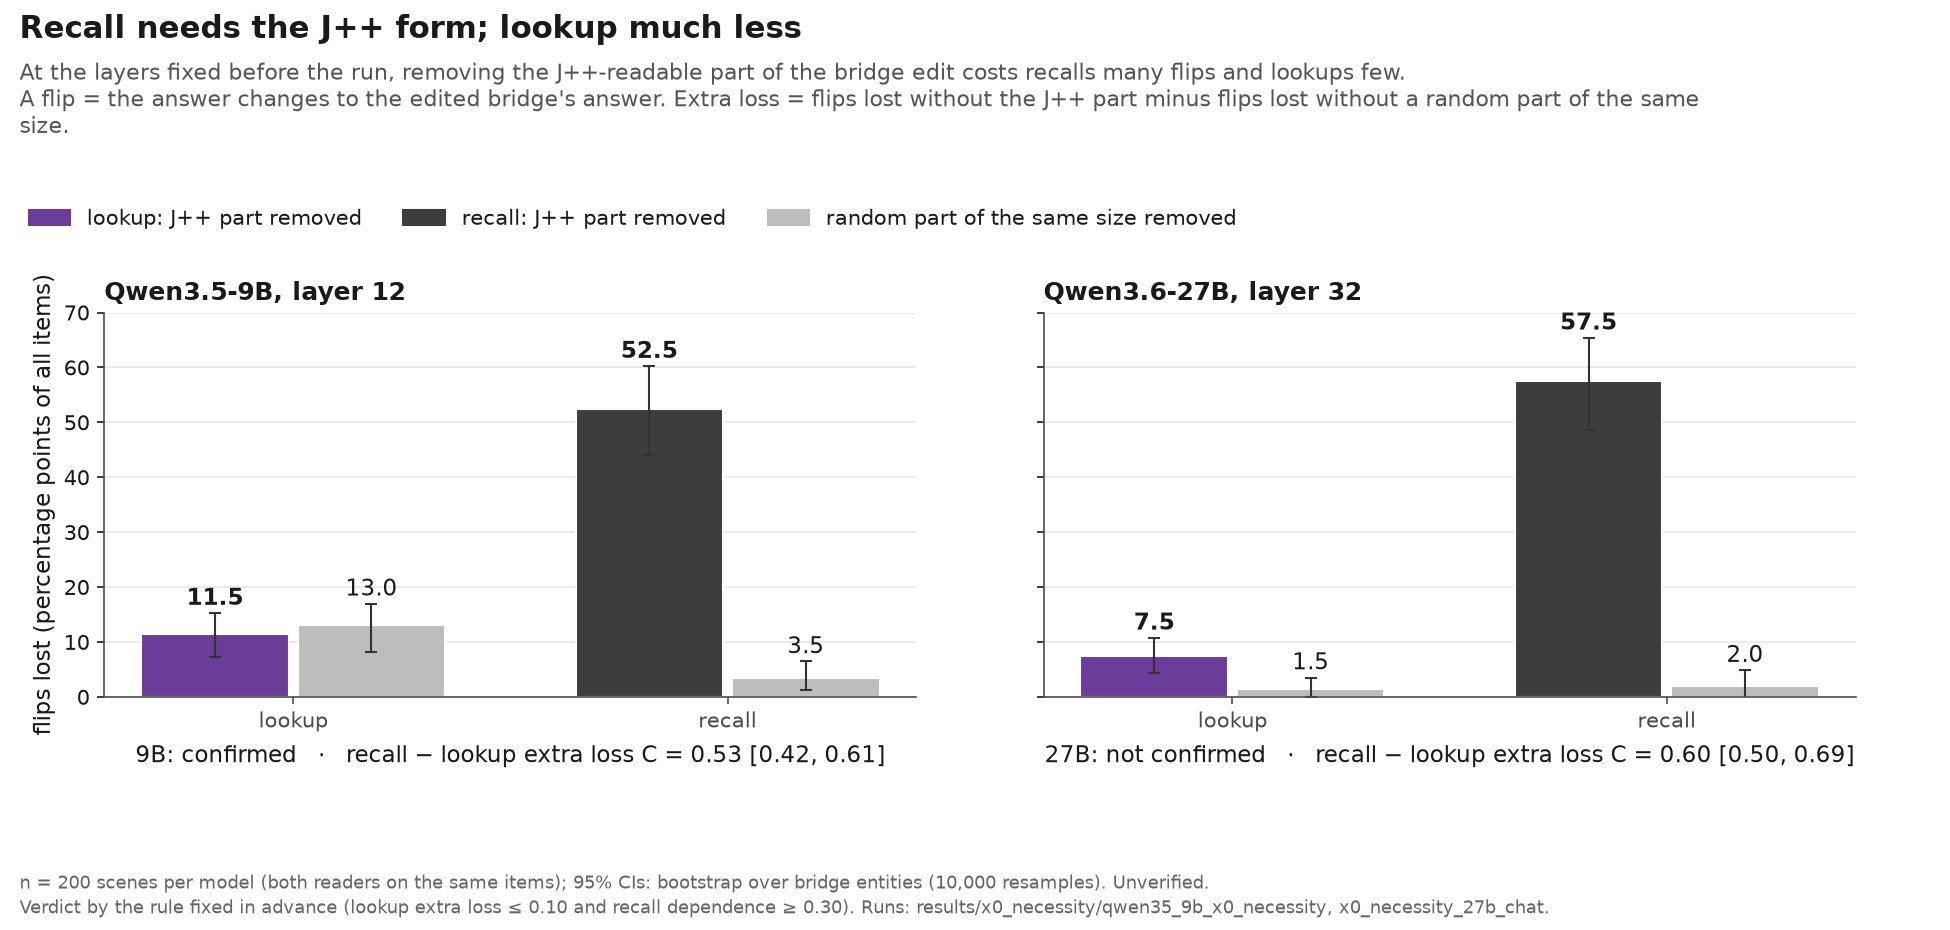
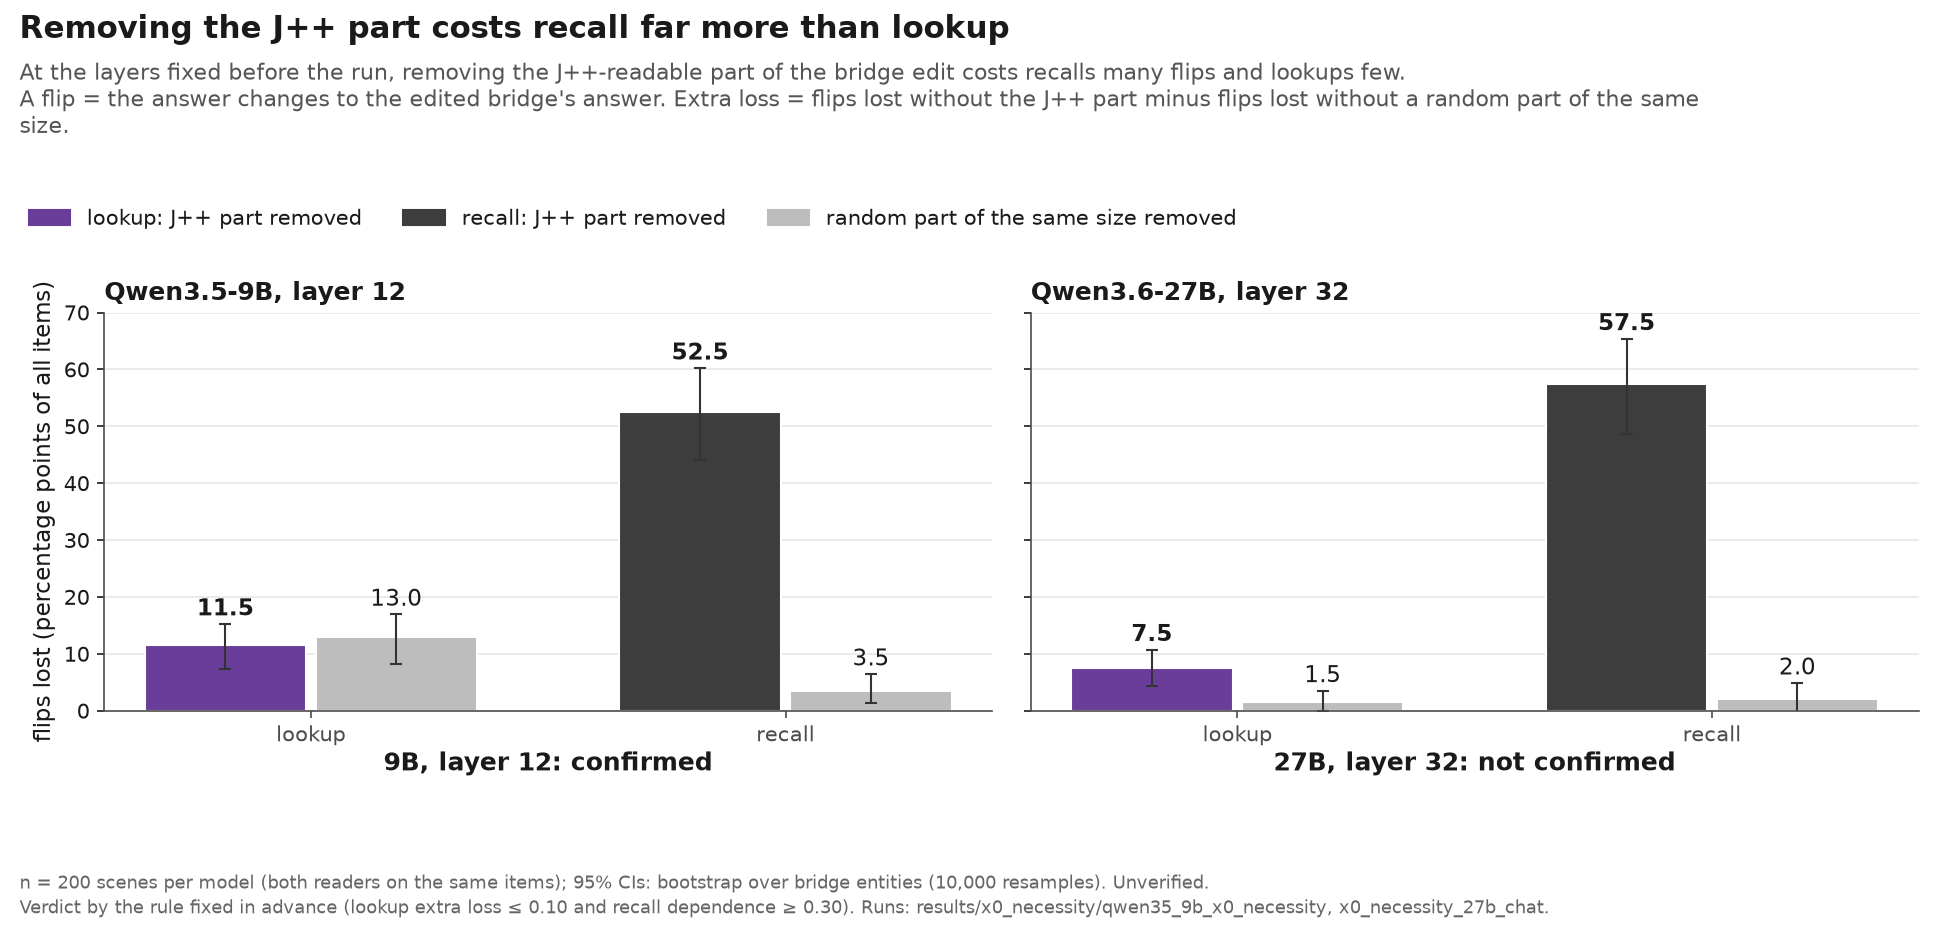
figures: replace the X0 overview with readable status figures (no numbers changed)
- figures/status_2026-10-24: F1 retitled ('Removing the J++ part costs recall far more than lookup') with the verdict
  under each model; F2 reworked (extra flips lost by depth, valid cells only, the 'not needed' band, the values at the
  pre-registered layer, invalid cells and the no-chat-template result in the footnote); F5 new (extra loss against
  the number of J++ atoms, 25-200).
- README: the overview replaced by F1 and F2; the k-curve by F5. The overview stays in figures/x0_necessity/ for the
  details page.

diff --git a/scripts/x0_status_pack.py b/scripts/x0_status_pack.py
@@ -1,11 +1,12 @@
 """x0_status_pack: four plain-language X0 figures for a status update (Dan, 24 Oct), from existing rows only. Writes
-figures/status_2026-10-24/{f1_readers, f2_depth, f3_dictionaries, f4_order}.png and data.csv. UNVERIFIED.
+figures/status_2026-10-24/{f1_readers, f2_depth, f3_dictionaries, f4_order, f5_atoms}.png and data.csv. UNVERIFIED.
 
 F1  the pre-registered layers (9B L12, 27B L32): flips lost (points of all items) without the J++ part and without a
     random part of the same size, per reader; the rule's verdict and the graded contrast C under each model.
-F2  share of flips lost by relative depth: lookup and recall without the J++ part; grey band = without a random part.
+F2  extra flips lost by relative depth, lookup and recall, valid cells only.
 F3  extra flips lost against the share of the change removed: J++, and W_U / W_E / random atoms as one grey band.
 F4  the share of lookups the whole edit flips, locker sentence before vs after the pick sentence.
+F5  extra flips lost against the number of J++ atoms removed (25-200), at the pre-registered layer.
 """
 
 from __future__ import annotations
@@ -98,8 +99,8 @@ def f1(plt, F, color, grey) -> None:
         record("f1", target, run, la, "recall-lookup", "graded contrast C (excess)", cc[0], cc[1], cc[2])
         ax.set_xticks(xs, ["lookup", "recall"])
         ax.set_title(f"{label}, layer {la}")
-        ax.text(0.5, -0.17, f"{label.split('-')[1]}: {verdict}   ·   recall − lookup extra loss C = {cc[0]:.2f} "
-                f"[{cc[1]:.2f}, {cc[2]:.2f}]", transform=ax.transAxes, ha="center", fontsize=11)  # fmt: skip
+        ax.text(0.5, -0.15, f"{label.split('-')[1]}, layer {la}: {verdict}", transform=ax.transAxes, ha="center",
+                fontsize=12, weight="bold")  # fmt: skip
         ax.grid(axis="y", color="#e8e8e8")
         ax.set_axisbelow(True)
     axes[0].set_ylabel("flips lost (percentage points of all items)")
@@ -107,7 +108,7 @@ def f1(plt, F, color, grey) -> None:
     handles = [plt.Rectangle((0, 0), 1, 1, color=F.LOOKUP), plt.Rectangle((0, 0), 1, 1, color=F.RECALL),
                plt.Rectangle((0, 0), 1, 1, color=grey)]  # fmt: skip
     labels = ["lookup: J++ part removed", "recall: J++ part removed", "random part of the same size removed"]
-    head(fig, "Recall needs the J++ form; lookup much less",
+    head(fig, "Removing the J++ part costs recall far more than lookup",
          "At the layers fixed before the run, removing the J++-readable part of the bridge edit costs recalls many flips "
          "and lookups few.\nA flip = the answer changes to the edited bridge's answer. Extra loss = flips lost without the "
          "J++ part minus flips lost without a random part of the same size.", handles, labels)  # fmt: skip
@@ -120,50 +121,115 @@ def f1(plt, F, color, grey) -> None:
 
 
 def f2(plt, F, color, grey) -> None:
-    fig, axes = plt.subplots(1, 2, figsize=(13, 5.8), sharey=True, sharex=True)
+    """Extra flips lost by relative depth, lookup and recall, valid cells only; the 'not needed' band; the values at
+    the pre-registered layer."""
+    fig, axes = plt.subplots(1, 2, figsize=(13, 5.8), sharey=True)
+    invalid = []
     for ax, (target, label, run, _) in zip(axes, MODELS, strict=True):
         r = XF.Run(run)
         cells = r.cells("chat")
         n_layers = pins.TARGETS[target]["n_layers"]
         layers = sorted({k[1] for k in cells})
-        depth = [100 * la / n_layers for la in layers]
-        valid = [(d, [cells[("chat", la, w, *X.MAIN)] for w in X.READERS]) for d, la in zip(depth, layers, strict=True)]
-        valid = [(d, [c for c in cs if c["valid"]]) for d, cs in valid]
-        valid = [(d, cs) for d, cs in valid if cs]
-        ax.fill_between([d for d, _ in valid], [min(c["Rdep"][1] for c in cs) for _, cs in valid],
-                        [max(c["Rdep"][2] for c in cs) for _, cs in valid], color=grey, alpha=0.6, lw=0)  # fmt: skip
+        ax.axhspan(0, X.AROUND_EXCESS, color="#f1f1f1", lw=0, zorder=0)
+        ax.text(0.99, X.AROUND_EXCESS / 2, "counts as 'not needed'", transform=ax.get_yaxis_transform(), ha="right",
+                va="center", fontsize=8.5, color="#888888")  # fmt: skip
+        ax.axhline(X.THROUGH_EXCESS, color="#bbbbbb", lw=0.8, ls=":")
+        ax.text(0.99, X.THROUGH_EXCESS + 0.01, "counts as 'needed'", transform=ax.get_yaxis_transform(), ha="right",
+                va="bottom", fontsize=8.5, color="#888888")  # fmt: skip
+        ax.axhline(0, color="black", lw=0.6)
+        series = {}
         for w in X.READERS:
-            cs = [cells[("chat", la, w, *X.MAIN)] for la in layers]
-            ys = [c["Jdep"][0] for c in cs]
-            ax.plot(depth, ys, "-", color=color[w], lw=2.2)
-            for d, c in zip(depth, cs, strict=True):
-                ax.plot(d, c["Jdep"][0], "o", ms=6, color=color[w], mfc=color[w] if c["valid"] else "white")
-                v, lo, hi = c["Jdep"]
-                record("f2", target, run, round(d * n_layers / 100), w, "flips lost without J++ (share)", v, lo, hi,
-                       c["n"])  # fmt: skip
+            pts = [(100 * la / n_layers, cells[("chat", la, w, *X.MAIN)]) for la in layers]
+            bad = [la for la in layers if not cells[("chat", la, w, *X.MAIN)]["valid"]]
+            if bad:
+                invalid.append(f"{label.split('-')[1]} {NAME[w]}s at layers {bad[0]}-{bad[-1]}" if len(bad) > 1
+                               else f"{label.split('-')[1]} {NAME[w]}s at layer {bad[0]}")  # fmt: skip
+            d = [x for x, c in pts if c["valid"]]
+            y = [c["excess"][0] for _, c in pts if c["valid"]]
+            ax.fill_between(d, [c["excess"][1] for _, c in pts if c["valid"]], [c["excess"][2] for _, c in pts if c["valid"]],
+                            color=color[w], alpha=0.13, lw=0)  # fmt: skip
+            ax.plot(d, y, "-o", color=color[w], lw=2.2, ms=4)
+            series[w] = dict(zip(d, y, strict=True))
+            for x, c in pts:
+                lo, hi = c["excess"][1], c["excess"][2]
+                record("f2", target, run, round(x * n_layers / 100), w, "extra loss", c["excess"][0], lo, hi, c["n"])
+        both = sorted(set(series[X.LOOKUP]) & set(series[X.RECALL]))
+        ax.fill_between(both, [series[X.LOOKUP][x] for x in both], [series[X.RECALL][x] for x in both], color="#9e9e9e",
+                        alpha=0.08, lw=0)  # fmt: skip
         pred = X.PREDICTED[target]
         pd = 100 * pred / n_layers
         ax.axvline(pd, color="#999999", lw=1, ls="--")
         lk, rc = cells[("chat", pred, X.LOOKUP, *X.MAIN)], cells[("chat", pred, X.RECALL, *X.MAIN)]
-        ax.annotate(f"layer {pred}: recall {rc['Jdep'][0]:.2f}, lookup {lk['Jdep'][0]:.2f}", (pd, 1.0), xytext=(4, 0),
-                    textcoords="offset points", fontsize=10, va="top")  # fmt: skip
-        ax.set_title(label)
+        ax.annotate(f"layer {pred}:\nlookup {lk['excess'][0]:.2f}\nrecall {rc['excess'][0]:.2f}", (pd, 0.42), xytext=(-6, 0),
+                    textcoords="offset points", fontsize=10, va="center", ha="right",
+                    bbox=dict(boxstyle="round,pad=0.25", fc="white", ec="none", alpha=0.85))  # fmt: skip
+        top = ax.secondary_xaxis(
+            "top", functions=(lambda x, n=n_layers: x * n / 100, lambda la, n=n_layers: 100 * la / n)
+        )
+        top.set_xticks(layers[::2])
+        top.tick_params(labelsize=8, colors="#888888")
+        top.set_xlabel("layer", fontsize=8.5, color="#888888")
+        ax.set_title(label, pad=24)
         ax.set_xlabel("depth (% of the model's layers)")
         ax.grid(color="#eeeeee")
         ax.set_axisbelow(True)
-    axes[0].set_ylabel("share of flips lost")
-    axes[0].set_ylim(-0.1, 1.05)
-    h = [plt.Line2D([], [], color=F.LOOKUP, lw=2.2), plt.Line2D([], [], color=F.RECALL, lw=2.2),
-         plt.Rectangle((0, 0), 1, 1, color=grey, alpha=0.6)]  # fmt: skip
-    head(fig, "Where in depth: recall keeps needing the J++ form; the lookup's need falls with depth",
-         "Share of the edit's flips lost when the J++ part is removed, by depth. The grey band is the same for a random "
-         "part of the same size;\nthe gap above it is the extra loss. Dashed line: the layer fixed before the run.", h,
-         ["lookup, J++ part removed", "recall, J++ part removed", "random part removed (valid cells, both readers)"])  # fmt: skip
-    foot(fig, ["Hollow markers: invalid cells (the whole edit flips < 30% or < 30 items). On the 27B the lookup's profile "
-               "tracks the share of the change J++ takes (Spearman 0.79).",
-               f"n = 200 scenes per layer; {CI}. Unverified. Runs: qwen35_9b_x0_necessity, x0_necessity_27b_chat."])  # fmt: skip
-    fig.tight_layout(rect=(0, 0.08, 1, 0.80))
+    axes[0].set_ylabel("extra flips lost\nvs. a random part of the same size")
+    axes[0].set_ylim(-0.2, 1.0)
+    h = [plt.Line2D([], [], color=F.LOOKUP, lw=2.2), plt.Line2D([], [], color=F.RECALL, lw=2.2)]
+    head(fig, "Recall depends on the J++ form at every depth; lookup only early",
+         "Extra flips lost = flips lost when the J++ part is removed minus flips lost when a random part of the same size "
+         "is removed (share of the edit's flips). Dashed line: the layer fixed before the run.", h, ["lookup", "recall"])  # fmt: skip
+    foot(fig, [f"Not enough flips to measure (the whole edit flips < 30% or < 30 items), not drawn: {'; '.join(invalid)}.",
+               f"n = 200 scenes per layer; {CI}. Unverified. On the 27B the lookup's profile tracks the share of the change "
+               "J++ takes (Spearman 0.79). No chat template: can't test (the models open a think block or answer in "
+               "markdown). Runs: qwen35_9b_x0_necessity, x0_necessity_27b_chat."])  # fmt: skip
+    fig.tight_layout(rect=(0, 0.09, 1, 0.82))
     fig.savefig(OUT / "f2_depth.png", dpi=150, facecolor="white")
+    plt.close(fig)
+
+
+def f5(plt, F, color, grey) -> None:
+    """Extra flips lost against the number of J++ atoms removed, at the pre-registered layer (the k-match runs)."""
+    fig, axes = plt.subplots(1, 2, figsize=(13, 5.6), sharey=True)
+    for ax, (target, label, _, kmatch) in zip(axes, MODELS, strict=True):
+        r = XF.Run(kmatch)
+        la = X.PREDICTED[target]
+        cells = r.cells("chat")
+        ax.axhspan(0, X.AROUND_EXCESS, color="#f1f1f1", lw=0, zorder=0)
+        ax.axhline(X.THROUGH_EXCESS, color="#bbbbbb", lw=0.8, ls=":")
+        ax.axhline(0, color="black", lw=0.6)
+        for w in X.READERS:
+            pts = sorted((k, c) for (rr, l2, ww, d, k, omp), c in cells.items()
+                         if l2 == la and ww == w and d == "jpp" and omp == "signed")  # fmt: skip
+            ks = [k for k, _ in pts]
+            ax.fill_between(ks, [c["excess"][1] for _, c in pts], [c["excess"][2] for _, c in pts], color=color[w],
+                            alpha=0.13, lw=0)  # fmt: skip
+            ax.plot(ks, [c["excess"][0] for _, c in pts], "-o", color=color[w], lw=2.2, ms=5)
+            for k, c in pts:
+                record("f5", target, kmatch, la, w, f"extra loss, J++ k={k}", c["excess"][0], c["excess"][1],
+                       c["excess"][2], c["n"])  # fmt: skip
+                last = k == max(ks)
+                ax.annotate(f"{c['excess'][0]:.2f}", (k, c["excess"][0]),
+                            xytext=(8, 0) if last else (0, 8 if w == X.RECALL else -15), textcoords="offset points",
+                            ha="left" if last else "center", va="center" if last else "baseline", fontsize=9,
+                            color=color[w])  # fmt: skip
+        ax.set_xscale("log")
+        ax.set_xticks([25, 50, 100, 200], ["25", "50", "100", "200"])
+        ax.minorticks_off()
+        ax.set_title(f"{label}, layer {la}")
+        ax.set_xlabel("J++ atoms removed")
+        ax.grid(color="#eeeeee")
+        ax.set_axisbelow(True)
+    axes[0].set_ylabel("extra flips lost\nvs. a random part of the same size")
+    axes[0].set_ylim(-0.3, 1.0)
+    h = [plt.Line2D([], [], color=F.LOOKUP, lw=2.2, marker="o"), plt.Line2D([], [], color=F.RECALL, lw=2.2, marker="o")]
+    head(fig, "On the 27B, with more J++ atoms the lookup needs J++ too",
+         "The J++ part grown from 25 to 200 atoms at the layer fixed before the run. The 9B's lookup stays at or below a "
+         "random part of the same size at every size; the 27B's rises to the recall's level.", h, ["lookup", "recall"])  # fmt: skip
+    foot(fig, [f"n = 200 scenes per point; {CI}. Light band: 0 to 0.10, counts as 'not needed'; dotted line: 0.20, "
+               "counts as 'needed'. Unverified. Descriptive, added after the data. Runs: qwen35_9b_x0_kmatch, x0_kmatch_27b."])  # fmt: skip
+    fig.tight_layout(rect=(0, 0.06, 1, 0.82))
+    fig.savefig(OUT / "f5_atoms.png", dpi=150, facecolor="white")
     plt.close(fig)
 
 
@@ -262,6 +328,7 @@ def main() -> None:
     f2(plt, F, color, grey)
     f3(plt, F, color, grey)
     f4(plt, F, color, grey)
+    f5(plt, F, color, grey)
     buf = io.StringIO()
     w = csv.DictWriter(
         buf, fieldnames=["figure", "model", "run", "layer", "reader", "quantity", "value", "lo", "hi", "n"]

diff --git a/README.md b/README.md
@@ -5,7 +5,7 @@
 
 > "Iris picked the frog. The locker of the frog is 5. ..." The bridge is *frog*. A **lookup** ("Which locker belongs to Iris's pick?") takes the answer from a sentence in the prompt; a **recall** ("How many legs does Iris's pick have?") takes it from memory.
 
-> **Status, 24 Oct 2026, evening.** Built at d5d82579 from the X0 run files. This page is the first experiment of the direction, X0 (pre-registered 24 Oct; [jobs/c3/X0.md](jobs/c3/X0.md)), and the plan it led to. Numbers are quoted from the run files (linked). Exploration phase: nothing here is hand-verified (UNVERIFIED). Models: Qwen3.6-27B and Qwen3.5-9B, hybrids with DeltaNet layers. The earlier claims (the late read, order then identity) are in [CHANGELOG.md](CHANGELOG.md).
+> **Status, 24 Oct 2026, evening.** Built at f116ef14 from the X0 run files. This page is the first experiment of the direction, X0 (pre-registered 24 Oct; [jobs/c3/X0.md](jobs/c3/X0.md)), and the plan it led to. Numbers are quoted from the run files (linked). Exploration phase: nothing here is hand-verified (UNVERIFIED). Models: Qwen3.6-27B and Qwen3.5-9B, hybrids with DeltaNet layers. The earlier claims (the late read, order then identity) are in [CHANGELOG.md](CHANGELOG.md).
 
 ## TL;DR
 
@@ -14,7 +14,9 @@
 - **The categorical version is model-dependent.** "Lookups do not use the J-form" is confirmed on the 9B (layer 12) and not confirmed on the 27B (layer 32): there the lookup depends on further J++ atoms (weak spots).
 - **Next**: what the lookup uses instead, and what decides the route (X2', X4, X1, X3), as graded reader comparisons.
 
-![X0: lookup and recall excess by layer, two models, three renderings](figures/x0_necessity/overview.png)
+![Removing the J++ part costs recall far more than lookup](figures/status_2026-10-24/f1_readers.png)
+
+![Recall depends on the J++ form at every depth; lookup only early](figures/status_2026-10-24/f2_depth.png)
 
 ## The experiment: X0
 
@@ -56,7 +58,7 @@
 
 ![Equal removed share](figures/x0_necessity/kmatch.png)
 
-![Excess against the number of atoms](figures/x0_necessity/kcurve.png)
+![On the 27B, with more J++ atoms the lookup needs J++ too](figures/status_2026-10-24/f5_atoms.png)
 
 **Controls**
 - A random part at each dictionary's own share.

diff --git a/docs/README.template.md b/docs/README.template.md
@@ -14,7 +14,9 @@
 - **The categorical version is model-dependent.** "Lookups do not use the J-form" is confirmed on the 9B (layer {{q|12}}) and not confirmed on the 27B (layer {{q|32}}): there the lookup depends on further J++ atoms (weak spots).
 - **Next**: what the lookup uses instead, and what decides the route (X2', X4, X1, X3), as graded reader comparisons.
 
-![X0: lookup and recall excess by layer, two models, three renderings](figures/x0_necessity/overview.png)
+![Removing the J++ part costs recall far more than lookup](figures/status_2026-10-24/f1_readers.png)
+
+![Recall depends on the J++ form at every depth; lookup only early](figures/status_2026-10-24/f2_depth.png)
 
 ## The experiment: X0
 
@@ -56,7 +58,7 @@
 
 ![Equal removed share](figures/x0_necessity/kmatch.png)
 
-![Excess against the number of atoms](figures/x0_necessity/kcurve.png)
+![On the 27B, with more J++ atoms the lookup needs J++ too](figures/status_2026-10-24/f5_atoms.png)
 
 **Controls**
 - A random part at each dictionary's own share.
